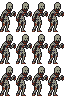
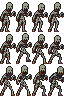
added animations for enemy

diff --git a/creatures.py b/creatures.py
@@ -92,7 +92,7 @@ class Enemy(Creature):
     """
     Base class for all enemies
     """
-    def __init__(self, rect, level, name, respawn_time=0, speed=0.006, damage=1, attack_time=2, max_health=10):
+    def __init__(self, rect, level, name, respawn_time=0, speed=16, damage=1, attack_time=2, max_health=10):
         super().__init__(rect, level, name, max_health=max_health)
         self.gfx = g.spritesheets[f"{self.name}_ss"].create_animation_system({"static":0, "moving":1, "attacking":2}, 0.25)
 

diff --git a/main.py b/main.py
@@ -42,7 +42,7 @@ for file_name in os.listdir(g.LEVELS_DIR):
     if file_name.endswith(".json") and not file_name.startswith("nolevel_"):
         levels.Level(file_name[:-5])
 
-g.current_level = g.levels["Cryo I"]
+g.current_level = g.levels["Hallway"] #"Cryo I"]
 for level in g.levels.values():
     level.linkup()
 
